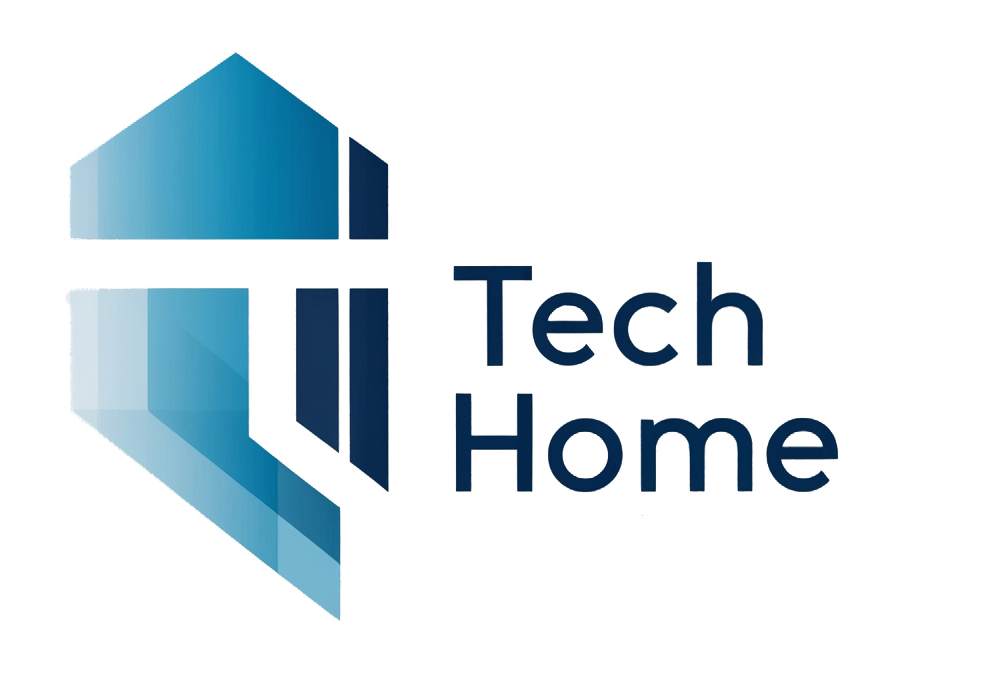
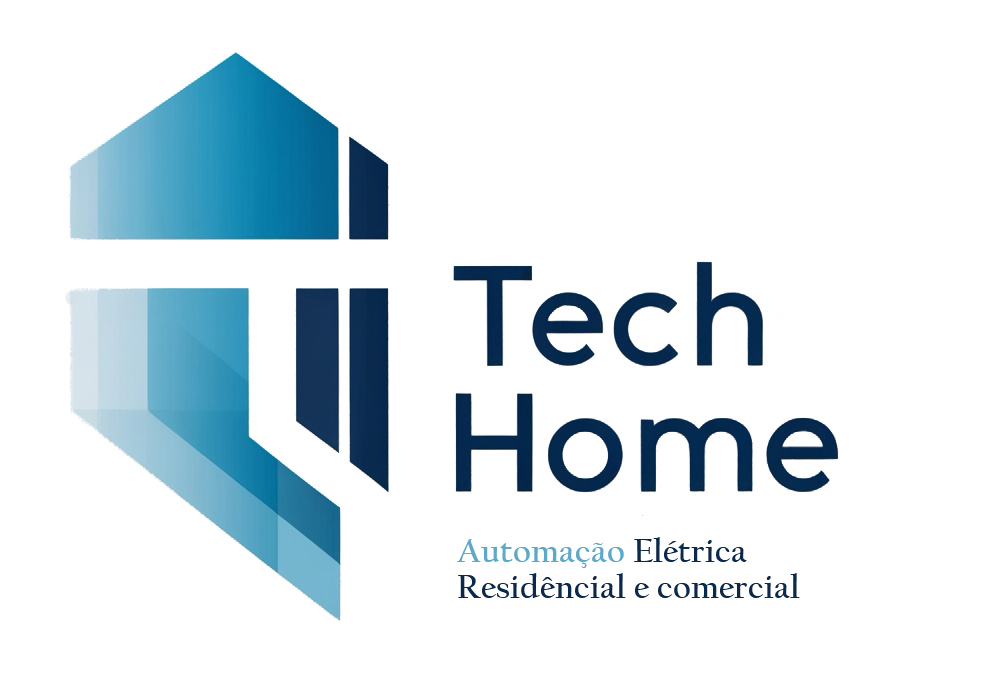
page contato e CSS

Changed region(s): [[0.4323, 0.8029, 0.8028, 0.8956]]

diff --git a/index.html b/index.html
@@ -1,63 +1,94 @@
 <!DOCTYPE html>
 <html lang="en">
-<head>
+  <head>
     <meta charset="UTF-8" />
     <meta name="viewport" content="width=device-width, initial-scale=1.0" />
     <link rel="stylesheet" href="style.css" />
+    <link rel="stylesheet" href="https://cdnjs.cloudflare.com/ajax/libs/font-awesome/5.10.2/css/all.min.css"/>
     <script src="https://code.jquery.com/jquery-3.6.0.min.js"></script>
     <script src="script.js"></script>
     <title>TechHome</title>
-</head>
-<body class="background">
+  </head>
+  <body class="background">
     <main>
-        <!--hamburger-icon-->
-        <div class="burger">
-            <span></span>
-            <span></span>
-            <span></span>
-        </div> <!--end hamburger-icon-->
-        <nav id="navBar">
-            <ul>
-                <li><a href="">Home</a></li>
-                <li><a href="solucoes">Soluções</a></li>
-                <li><a href="contato">Contato</a></li>
-            </ul>
-        </nav>
-        <section class="main_home">
-            <div class="introduction">
-                <img class="logo" src="img/Tech_Home_1.png" alt="" />
-                <div class="txt_main">
-                    <h1><span>Automação</span> Elétrica Residencial e comercial</h1>
-                </div>
-            </div>
-            <div class="card-1">
-                <div class="txt_card-1">
-                    <img class="icon" src="img/icon.png" alt="" />
-                    <h2>Smart Home</h2>
-                    <p>Controle todos os objetos inteligentes de sua casa pelo celular</p>
-                    <a href="">Fale conosco</a>
-                </div>
-                <div class="interruptor">
-                    <img src="img/tomada.png" alt="" />
-                </div>
-            </div>
-        </section>
+      <!--hamburger-icon-->
+      <div class="burger">
+        <span></span>
+        <span></span>
+        <span></span>
+      </div>
+      <!--end hamburger-icon-->
+      <nav id="inicio">
+        <ul>
+          <li><a href="">Home</a></li>
+          <li><a href="solucoes">Soluções</a></li>
+          <li><a href="contato.html">Contato</a></li>
+        </ul>
+      </nav>
+      <section class="main_home">
+        <div class="introduction">
+          <img class="logo" src="img/Tech_Home_1.png" alt="" />
+          <div class="txt_main">
+            <h1><span>Automação</span> Elétrica Residencial e Comercial</h1>
+          </div>
+        </div>
+        <div class="card-1">
+          <div class="txt_card-1">
+            <img class="icon" src="img/icon.png" alt="" />
+            <h2>Smart Home</h2>
+            <p>
+              Controle todos os objetos inteligentes de sua casa pelo celular
+            </p>
+            <a href="">Fale conosco</a>
+          </div>
+          <div class="interruptor">
+            <img src="img/tomada.png" alt="" />
+          </div>
+        </div>
+      </section>
     </main>
-    <section class="container-2"></section>
+    <section class="container-2">
+      <div class="itens"></div>
+    </section>
     <section class="container-3">
-        <div class="img_principal">
-            <img src="img/fundo_sala.png" alt="" class="sala_tv" />
+      <div class="img_principal">
+        <img src="img/fundo_sala.png" alt="" class="sala_tv" />
+      </div>
+      <div class="card-2">
+        <div class="txt_card-2">
+          <img class="icon-2" src="img/icon.png" alt="" />
+          <h2>Casa conectada</h2>
+          <p>Controle sua casa de qualquer lugar do mundo</p>
+          <a href="">Fale conosco</a>
         </div>
-        <div class="card-2">
-            <div class="txt_card-2">
-                <img class="icon-2" src="img/icon.png" alt="">
-                <h2>Casa conectada</h2>
-                <p>Controle sua casa de qualquer lugar do mundo</p>
-                <a href="">Fale conosco</a>
-            </div>
-        </div>
+      </div>
     </section>
     <section></section>
-    <footer></footer>
-</body>
+    <footer>
+      <div class="footer">
+        <div id="copyright">
+            <p>&#169 Tech Home</p>
+        </div>
+        <div class="links">
+          <a href="quem_somos.html">Quem Somos?</a>
+          <a href="/contato.html">Contato</a>
+        </div>
+        <div id="social">
+            <a href="">
+                <i class="fab fa-youtube"></i>
+            </a>
+            <a href="">
+                <i class="fab fa-facebook"></i>
+            </a>
+            <a href="">
+                <i class="fab fa-linkedin"></i>
+            </a>
+            <a href="">
+                <i class="fab fa-instagram"></i>
+            </a>
+        </div>
+      </div>
+    </footer>
+    <a href="#inicio" id="topo"><img src="img/topo.png" alt="" /></a>
+  </body>
 </html>

diff --git a/style.css b/style.css
@@ -308,7 +308,7 @@ nav li a:hover {
     background-color: #fff;
     width: 35%;
     height: 20vw;
-    margin: 20% 0% 0% -18%;
+    margin: 20% 0% 0% -19%;
     padding: 0% 0 2% 5%;
     box-shadow: 0 4px 8px rgba(19, 69, 97, 0.1);
 }
@@ -349,7 +349,6 @@ nav li a:hover {
 
 .sala_tv {
     width: 90%;
-    border-radius: 0 55px 55px 0;
     margin: 4% 0% 4% -8%;
 }
 
@@ -380,5 +379,78 @@ nav li a:hover {
 
     .txt_card-2 a {
         font-size: 3.6vw;
+    }
+}
+
+/*Footer*/
+footer {
+    background-color: #092033;
+    height: 40vh;
+    font-size: 1vw;
+}
+
+.footer {
+    display: flex;
+    flex-direction: row;
+    justify-content: space-evenly;
+    padding-top: 5%;
+}
+
+.links {
+    display: flex;
+    flex-direction: column;
+}
+
+.footer a {
+    text-decoration: none;
+    color: #fff;
+}
+
+#social i {
+    color: #fff;
+    margin-bottom: 25px;
+    font-size: 2rem;
+    margin: 0.5rem;
+    transition: all 150ms ease-in-out;
+    filter: drop-shadow(1px 1px 5px rgba(0, 0, 0, 0.5));
+}
+
+#social i:hover {
+    transform: scale(1.2);
+    transform: translate(-1px, -1px);
+      animation: glitch 200ms infinite;
+    -webkit-animation: glitch 300ms infinite;
+    color: white;
+  }
+  
+  @keyframes glitch {
+      0% { text-shadow: -3px 2px #E73C7E, -2px -4px #2CABFF, -1px -1px black, 3px 5px rgb(0, 0, 0);}
+      35% { text-shadow: -2px -4px #E73C7E, 2px 1x #2CABFF, -1px -1px black, 3px 5x 5px rgb(0, 0, 0); }
+    40% { text-shadow: 2px -1px #E73C7E, -4px 1px #2CABFF, -1px -1px black, 3px 5px 5px rgb(0, 0, 0);}
+    75% { text-shadow: -3px -1px #E73C7E, -2px -2px #2CABFF, -1px -1px black, 3px 5px 5px rgb(0, 0, 0);}
+      100% { text-shadow: -2px -1px #E73C7E, 2px -1px #2CABFF, -1px -1px black, 3px 5px 5px rgb(0, 0, 0);}
+  }
+
+#topo {
+    position: fixed;
+    z-index: 101;
+    right: 10px;
+    bottom: 10px;
+}
+
+#copyright {
+    font-size: 1.6vw;
+    color: #fff;
+}
+
+@media (max-width: 768px) {
+    .footer {
+        display: flex;
+        flex-direction: column;
+    }
+
+    .footer a {
+        font-size: 3vw;
+        margin-bottom: 2%;
     }
 }

diff --git a/contato.html b/contato.html
@@ -1,0 +1,57 @@
+<!DOCTYPE html>
+<html lang="en">
+<head>
+    <meta charset="UTF-8" />
+    <meta name="viewport" content="width=device-width, initial-scale=1.0" />
+    <link rel="stylesheet" href="style.css" />
+    <link rel="stylesheet" href="https://cdnjs.cloudflare.com/ajax/libs/font-awesome/5.10.2/css/all.min.css"/>
+    <script src="https://code.jquery.com/jquery-3.6.0.min.js"></script>
+    <script src="script.js" defer></script>
+    <title>TechHome</title>
+</head>
+<body class="">
+    <main>
+        <div id="inicio" class="contato">
+            <form action="">
+                <label for="name">Nome:</label>
+                <input type="text" id="name" name="name" required>
+                
+                <label for="email">E-mail:</label>
+                <input type="email" id="email" name="email" required>
+                
+                <label for="phone">Telefone:</label>
+                <input type="tel" id="phone" name="phone" required>
+                
+                <button type="submit">Enviar</button>
+            </form>
+        </div>
+    </main>
+    <footer>
+        <div class="footer">
+          <div id="copyright">
+              <p>&#169 Tech Home</p>
+          </div>
+          <div class="links">
+            <a href="quem_somos.html">Quem Somos?</a>
+            <a href="/contato.html">Contato</a>
+          </div>
+          <div id="social">
+              <a href="">
+                  <i class="fab fa-youtube"></i>
+              </a>
+              <a href="">
+                  <i class="fab fa-facebook"></i>
+              </a>
+              <a href="">
+                  <i class="fab fa-linkedin"></i>
+              </a>
+              <a href="">
+                  <i class="fab fa-instagram"></i>
+              </a>
+          </div>
+        </div>
+      </footer>
+</body>
+<a href="#inicio" id="topo"><img src="img/topo.png" alt="" /></a>
+</html>
+
